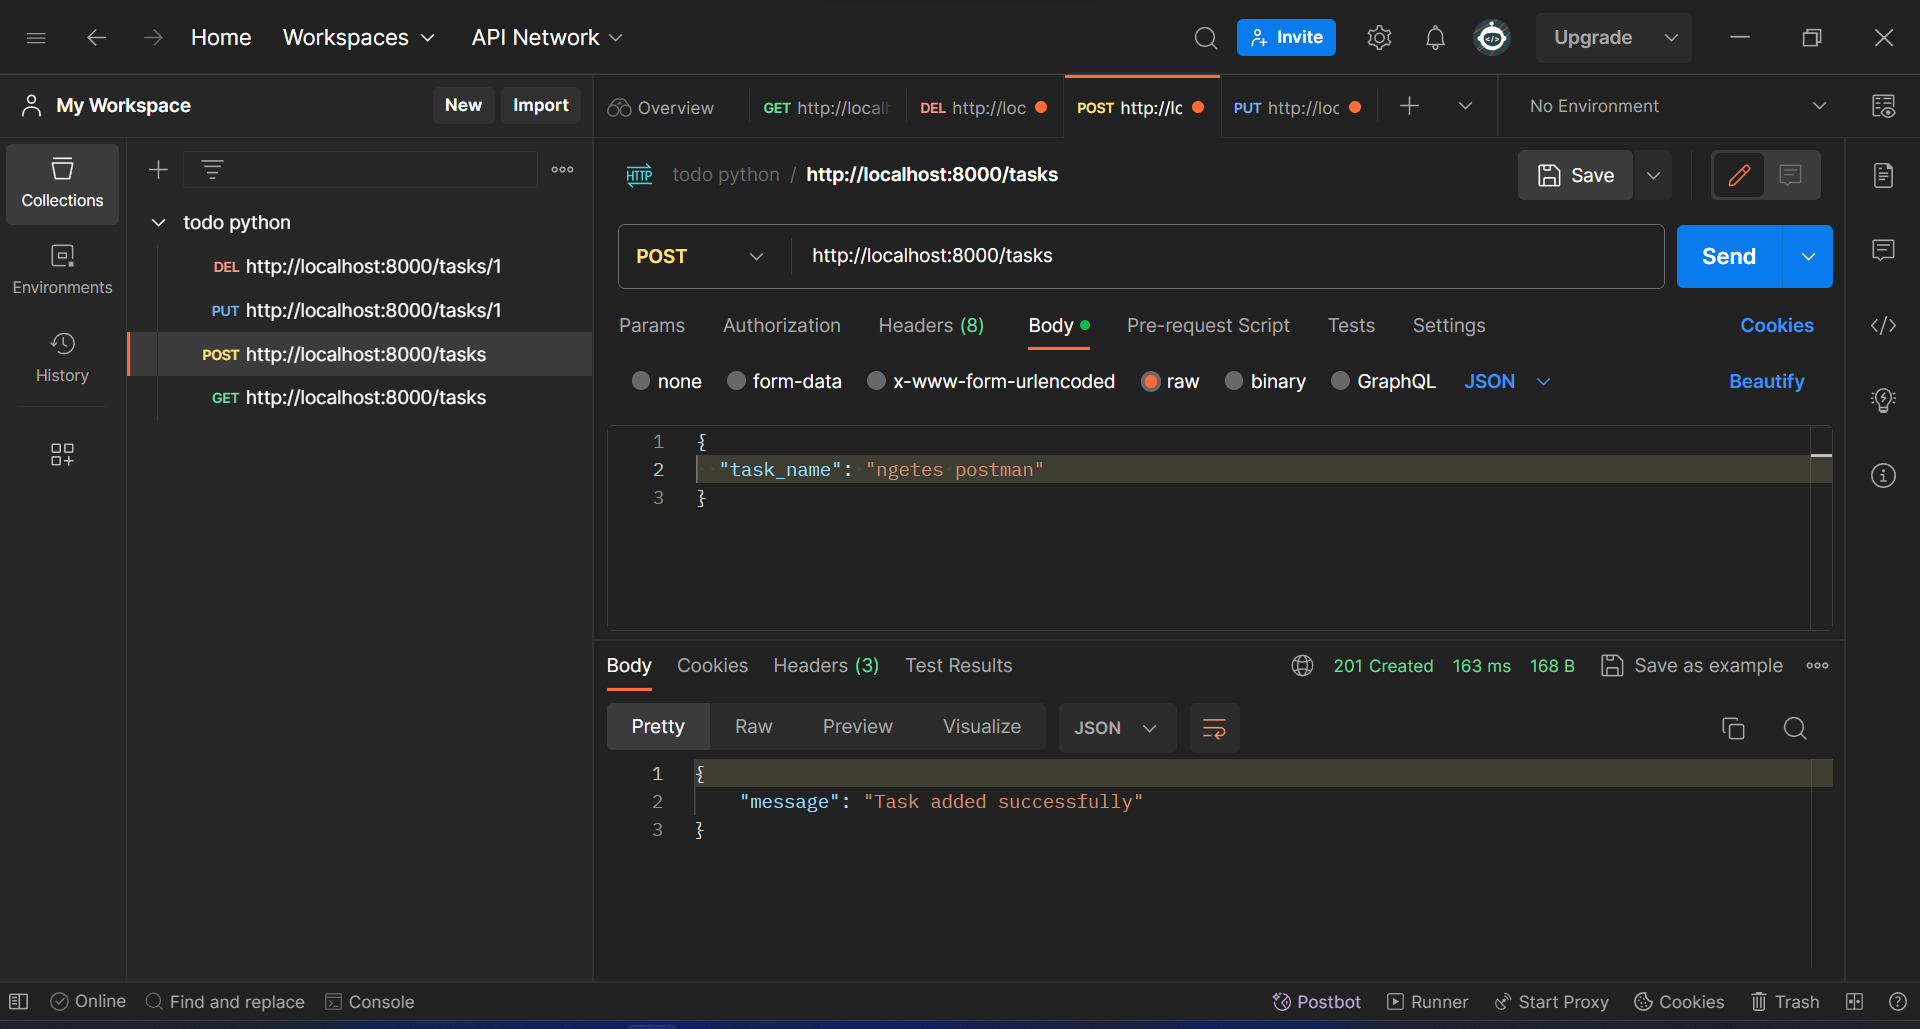
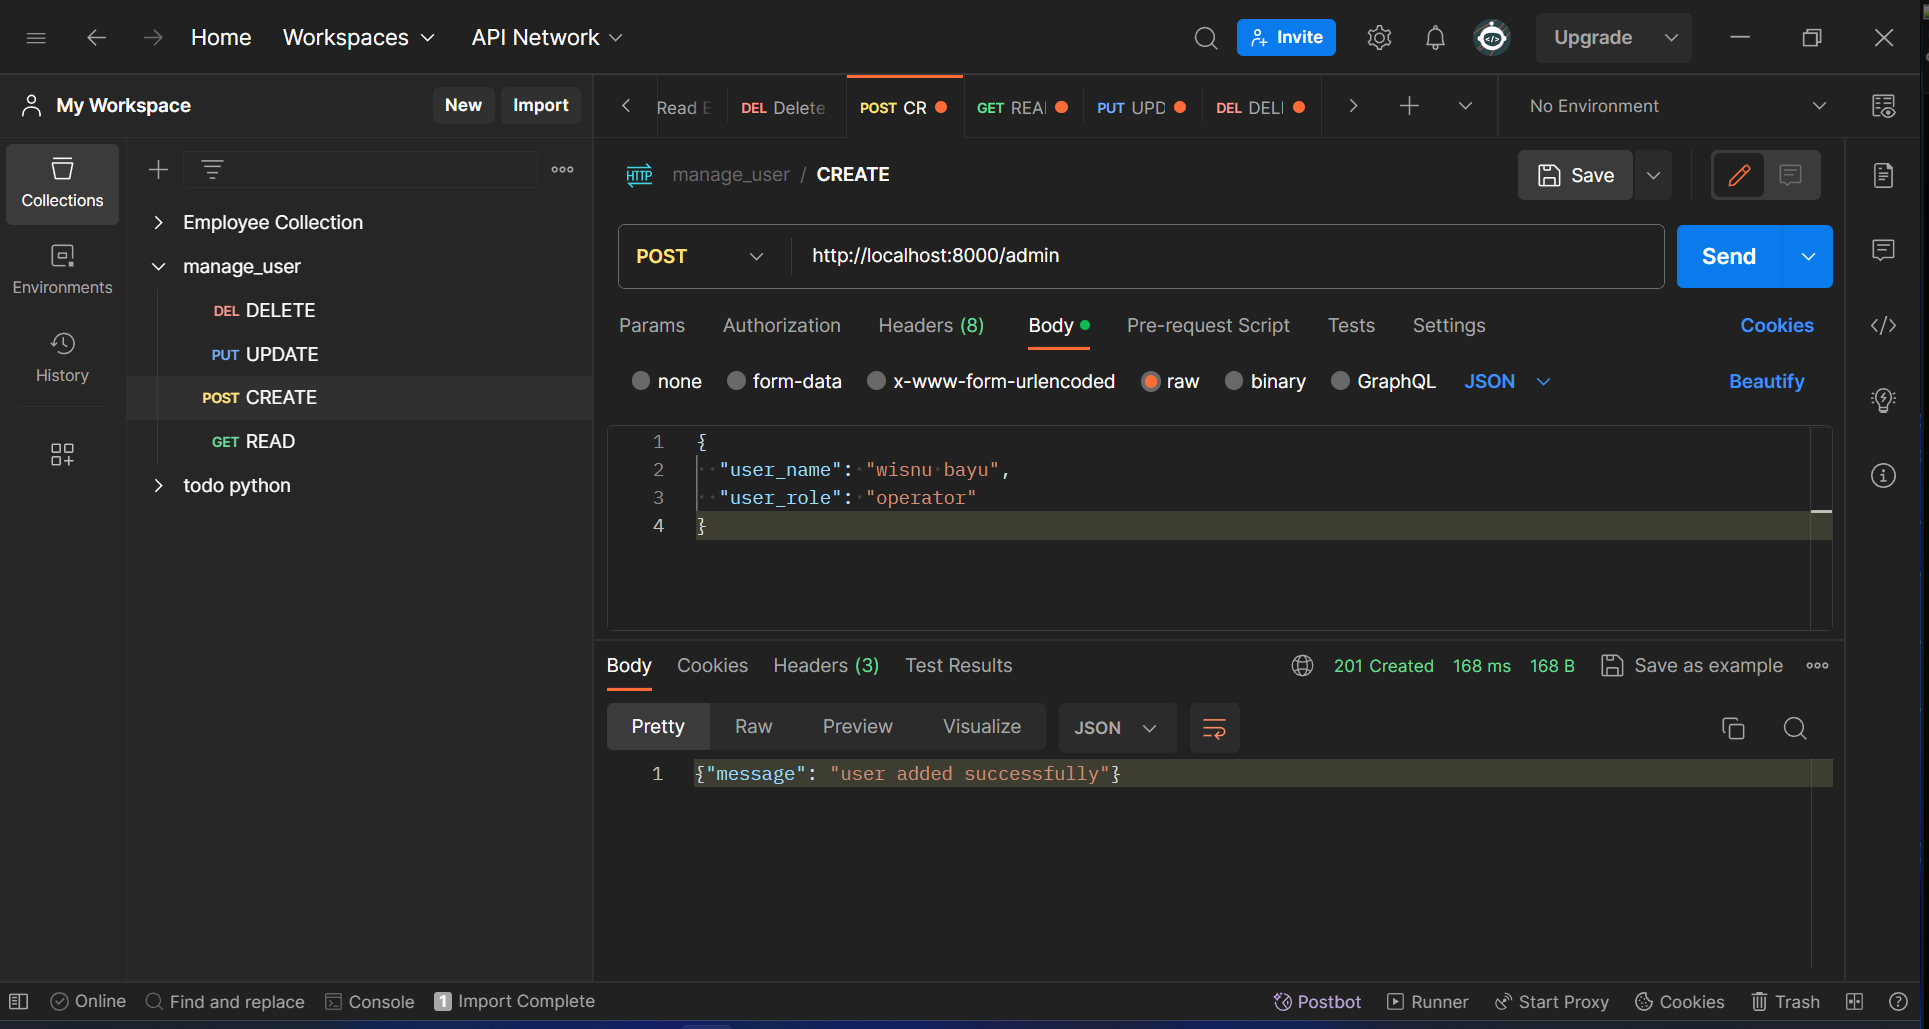
rename to user

diff --git a/main.py b/main.py
@@ -10,7 +10,7 @@ DB_HOST = os.getenv("DB_HOST")
 DB_NAME = os.getenv("DB_NAME")
 DB_USER = os.getenv("DB_USER")
 DB_PASSWORD = os.getenv("DB_PASSWORD")
-MY_TODO_PASSWORD = os.getenv("MY_TODO_PASSWORD")
+ADMIN_PASSWORD = os.getenv("ADMIN_PASSWORD")
 
 class MyRequestHandler(BaseHTTPRequestHandler):
 
@@ -26,13 +26,15 @@ class MyRequestHandler(BaseHTTPRequestHandler):
         cursor = connection.cursor()
 
         cursor.execute("""
-                       SELECT id, pgp_sym_decrypt(task_name, '{}') as decrypted_tasks 
-                       FROM tasks_encrypt
-                       """.format(MY_TODO_PASSWORD))
+                       SELECT id, 
+                       pgp_sym_decrypt(user_name, %s) as user_name, 
+                       pgp_sym_decrypt(user_role, %s) as user_name
+                       FROM data_user
+                       """, (ADMIN_PASSWORD, ADMIN_PASSWORD))
 
-        tasks = []
+        user = []
         for row in cursor:
-            tasks.append({"id": row[0], "task_name": row[1]})
+            user.append({"id": row[0], "user_name": row[1], "user_role": row[2]})
 
         cursor.close()
         connection.close()
@@ -40,14 +42,15 @@ class MyRequestHandler(BaseHTTPRequestHandler):
         self.send_response(200)
         self.send_header('Content-type', 'application/json')
         self.end_headers()
-        self.wfile.write(json.dumps(tasks).encode())
+        self.wfile.write(json.dumps(user).encode())
 
     def do_POST(self):
         content_length = int(self.headers['Content-Length'])
         body = self.rfile.read(content_length).decode()
         data = json.loads(body)
 
-        task_name = data.get('task_name')
+        user_name = data.get('user_name')
+        user_role = data.get('user_role')
 
         try:
             connection = psycopg2.connect(host=DB_HOST, dbname=DB_NAME, user=DB_USER, password=DB_PASSWORD)
@@ -60,9 +63,9 @@ class MyRequestHandler(BaseHTTPRequestHandler):
         cursor = connection.cursor()
 
         cursor.execute("""
-                       INSERT INTO tasks_encrypt (task_name) 
-                       VALUES (encrypt_tasks(%s, '{}'))
-                       """.format(MY_TODO_PASSWORD), (task_name,))
+                       INSERT INTO data_user (user_name, user_role) 
+                       VALUES (encrypt_data(%s, %s), encrypt_data(%s, %s))
+                       """, (user_name, ADMIN_PASSWORD, user_role, ADMIN_PASSWORD))
         connection.commit()
 
         cursor.close()
@@ -71,19 +74,20 @@ class MyRequestHandler(BaseHTTPRequestHandler):
         self.send_response(201)
         self.send_header('Content-type', 'application/json')
         self.end_headers()
-        self.wfile.write(json.dumps({"message": "Task added successfully"}).encode())
+        self.wfile.write(json.dumps({"message": "user added successfully"}).encode())
 
     def do_PUT(self):
         path = self.path.split("/")
 
         if len(path) >= 3 and path[2].isdigit():
-            task_id = int(path[2])
+            user_id = int(path[2])
 
             content_length = int(self.headers['Content-Length'])
             body = self.rfile.read(content_length).decode()
             data = json.loads(body)
 
-            updated_task_name = data.get('task_name')
+            updated_user_name = data.get('user_name')
+            updated_user_role = data.get('user_role')
 
             try:
                 connection = psycopg2.connect(host=DB_HOST, dbname=DB_NAME, user=DB_USER, password=DB_PASSWORD)
@@ -96,10 +100,12 @@ class MyRequestHandler(BaseHTTPRequestHandler):
             cursor = connection.cursor()
 
             cursor.execute("""
-                           UPDATE tasks_encrypt 
-                           SET task_name = encrypt_tasks(%s, '{}') 
+                           UPDATE data_user 
+                           SET 
+                           user_name = encrypt_data(%s, %s) ,
+                           user_role = encrypt_data(%s, %s)
                            WHERE id = %s
-                           """.format(MY_TODO_PASSWORD), (updated_task_name, task_id))
+                           """, (updated_user_name, ADMIN_PASSWORD, updated_user_role, ADMIN_PASSWORD, user_id))
             connection.commit()
 
             cursor.close()
@@ -108,13 +114,13 @@ class MyRequestHandler(BaseHTTPRequestHandler):
             self.send_response(200)
             self.send_header('Content-type', 'application/json')
             self.end_headers()
-            self.wfile.write(json.dumps({"message": "Task updated successfully"}).encode())
+            self.wfile.write(json.dumps({"message": "user updated successfully"}).encode())
 
     def do_DELETE(self):
         path = self.path.split("/")
 
         if len(path) >= 3 and path[2].isdigit():
-            task_id = int(path[2])
+            user_id = int(path[2])
 
             try:
                 connection = psycopg2.connect(host=DB_HOST, dbname=DB_NAME, user=DB_USER, password=DB_PASSWORD)
@@ -127,8 +133,8 @@ class MyRequestHandler(BaseHTTPRequestHandler):
             cursor = connection.cursor()
 
             cursor.execute("""
-                           DELETE FROM tasks_encrypt WHERE id = %s
-                           """, (task_id,))
+                           DELETE FROM data_user WHERE id = %s
+                           """, (user_id,))
             connection.commit()
 
             cursor.close()
@@ -137,7 +143,7 @@ class MyRequestHandler(BaseHTTPRequestHandler):
             self.send_response(200)
             self.send_header('Content-type', 'application/json')
             self.end_headers()
-            self.wfile.write(json.dumps({"message": "Task deleted successfully"}).encode())
+            self.wfile.write(json.dumps({"message": "user deleted successfully"}).encode())
 
 PORT = 8000
 

diff --git a/README.md b/README.md
@@ -5,28 +5,32 @@
 -   Sudah terinstal python dan postgresql
 -   Jalankan command `pip install psycopg2 dotenv`
 
-## Cara menjalankan program todo API
+## Cara menjalankan program user manager API
 
 1. Download code
-2. Jalankan pgAdmin dan buat database bernama `todo`
-3. Pada database todo buka psql tool dan input command `CREATE EXTENSION pgcrypto;` untuk install ekstensi pgcrypto
-4. Pada database todo buka query tool dan masukan `tasks_encrypt.sql` untuk membuat table task dan membuat fungsi encrypt_tasks untuk fitur enkripsi aes256
+2. Jalankan pgAdmin dan buat database bernama `users`
+3. Pada database users buka psql tool dan input command `CREATE EXTENSION pgcrypto;` untuk install ekstensi pgcrypto
+4. Pada database users buka query tool dan masukan `user_encrypt.sql` untuk membuat table data_user dan membuat fungsi encrypt_data untuk fitur enkripsi aes256
 5. Buka `.env.example` lalu sesuaikan code didalamnya. Setelah itu rename file menjadi `.env`
 6. Nyalakan server dengan command `python main.py`
-7. Jalankan program todo API menggunakan postman atau software sejenis. Untuk mempermudah bisa import `collection_todo.json` pada postman
+7. Jalankan program users manager API menggunakan postman atau software sejenis. Untuk mempermudah bisa import `collection_manage_user.json` pada postman
 
 ## Contoh Menjalankan Menggunakan Postman
 
 -   Create
+
     ![create](screenshot/create.png)
 
 -   Read
+
     ![read](screenshot/read.png)
 
 -   Update
+
     ![update](screenshot/update.png)
 
 -   Delete
+
     ![delete](screenshot/delete.png)
 
 ## Pengaplikasian Enkripsi AES256
@@ -34,7 +38,9 @@
 ### Perbandingan Select Data
 
 -   Jika tidak memasukan password
+
     ![no password](screenshot/no%20password.png)
 
 -   Jika memasukan password
+
     ![dengan password](screenshot/dengan%20password.png)
